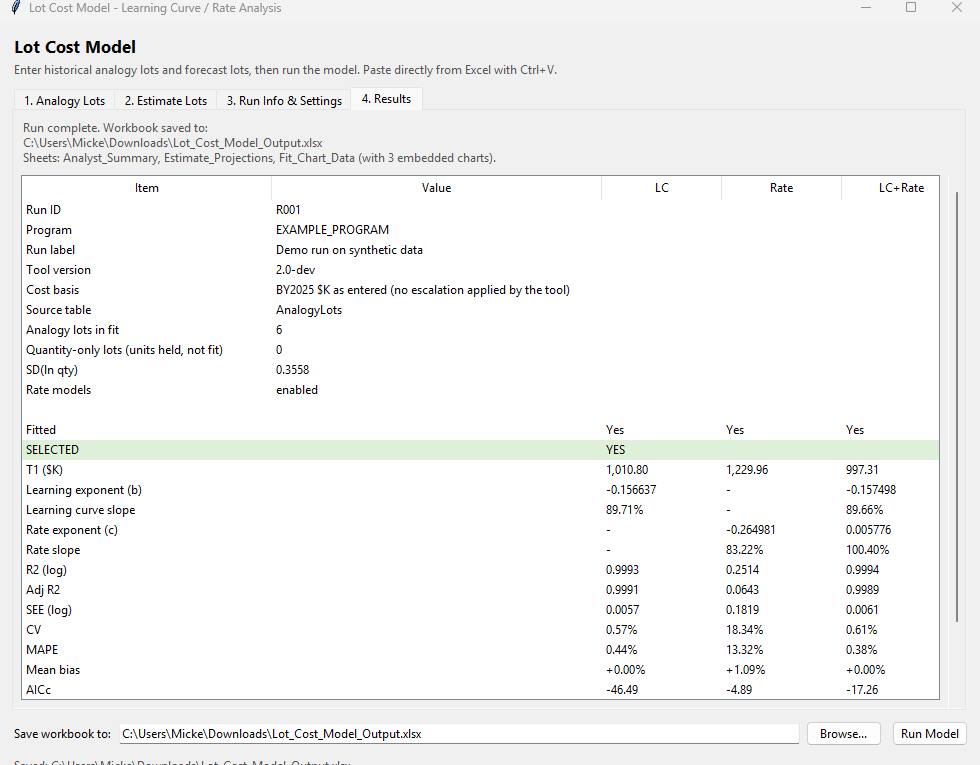
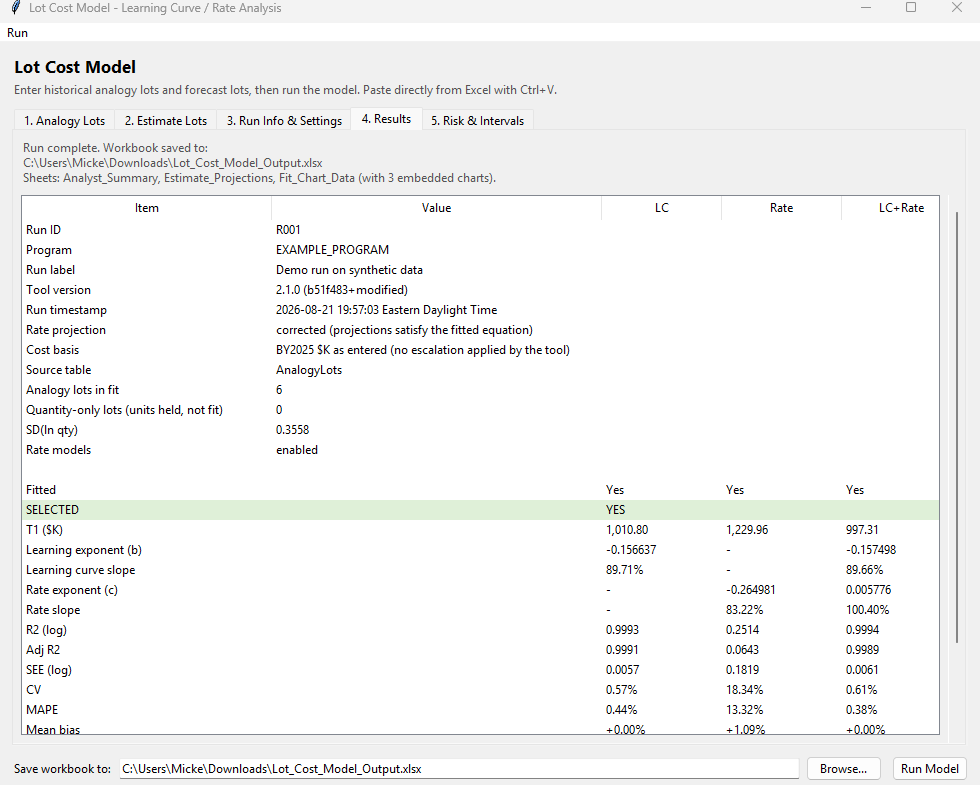
Make the S-curve percentile markers stand out from the curve
Left to the chart style, Excel drew P50 and P80 in two more shades of
the curve's own green, so the points a reader is looking for blended
into the line they sit on. They are now a blue circle and a vermillion
diamond from the Okabe-Ito palette, filled with a white keyline and a
size larger.

Different shape as well as different colour, so the two stay apart in
greyscale, on a photocopy, and for the common colour vision
deficiencies. The legend inherits both, so it names each percentile
next to the marker it belongs to.

Also refreshes the results screenshot, which still showed the old
hardcoded "2.0-dev" version row rather than the provenance stamp.

diff --git a/lot_cost_model.py b/lot_cost_model.py
@@ -10,6 +10,7 @@ from openpyxl.chart import Reference, ScatterChart, Series
 from openpyxl.chart.label import DataLabelList
 from openpyxl.chart.layout import Layout, ManualLayout
 from openpyxl.chart.series import SeriesLabel
+from openpyxl.chart.shapes import GraphicalProperties
 from openpyxl.chart.text import RichText
 from openpyxl.drawing.text import (
     CharacterProperties,
@@ -1918,8 +1919,16 @@ def save_complete_excel_workbook(
         # the percentile and its cost, so the legend carries both while the
         # marker shows where it falls on the curve.
         pct = risk_scurve_df["Percentile"].round(4)
-        marks = [("P50", 0.50), ("P80", 0.80)]
-        for i, (name, level) in enumerate(marks):
+        # Left to its own palette Excel gives these two more shades of the
+        # curve's green, so they disappear into it. Fixed colours from the
+        # Okabe-Ito set, which stays distinguishable for the common colour
+        # vision deficiencies, plus a different shape each so the two are
+        # still telling apart in greyscale or on a photocopy.
+        marks = [
+            ("P50", 0.50, "0072B2", "circle"),      # blue
+            ("P80", 0.80, "D55E00", "diamond"),     # vermillion
+        ]
+        for i, (name, level, colour, symbol) in enumerate(marks):
             hit = risk_scurve_df.loc[pct == round(level, 4), "Buy Total ($)"]
             if hit.empty:
                 continue
@@ -1938,8 +1947,15 @@ def save_complete_excel_workbook(
                 xvalues=Reference(wss, min_col=x_col, min_row=2, max_row=2),
                 title_from_data=True,
             )
-            mark.marker.symbol = "circle"
-            mark.marker.size = 9
+            mark.marker.symbol = symbol
+            mark.marker.size = 11
+            # Filled in the marker's own colour with a white keyline, so it
+            # reads as a marker sitting on the curve rather than a kink in it.
+            marker_style = GraphicalProperties(solidFill=colour)
+            marker_style.line.solidFill = "FFFFFF"
+            marker_style.line.width = 19050  # 1.5pt, in EMU
+            mark.marker.graphicalProperties = marker_style
+            # No connecting line: these are single points.
             mark.graphicalProperties.line.noFill = True
             curve.series.append(mark)
 
